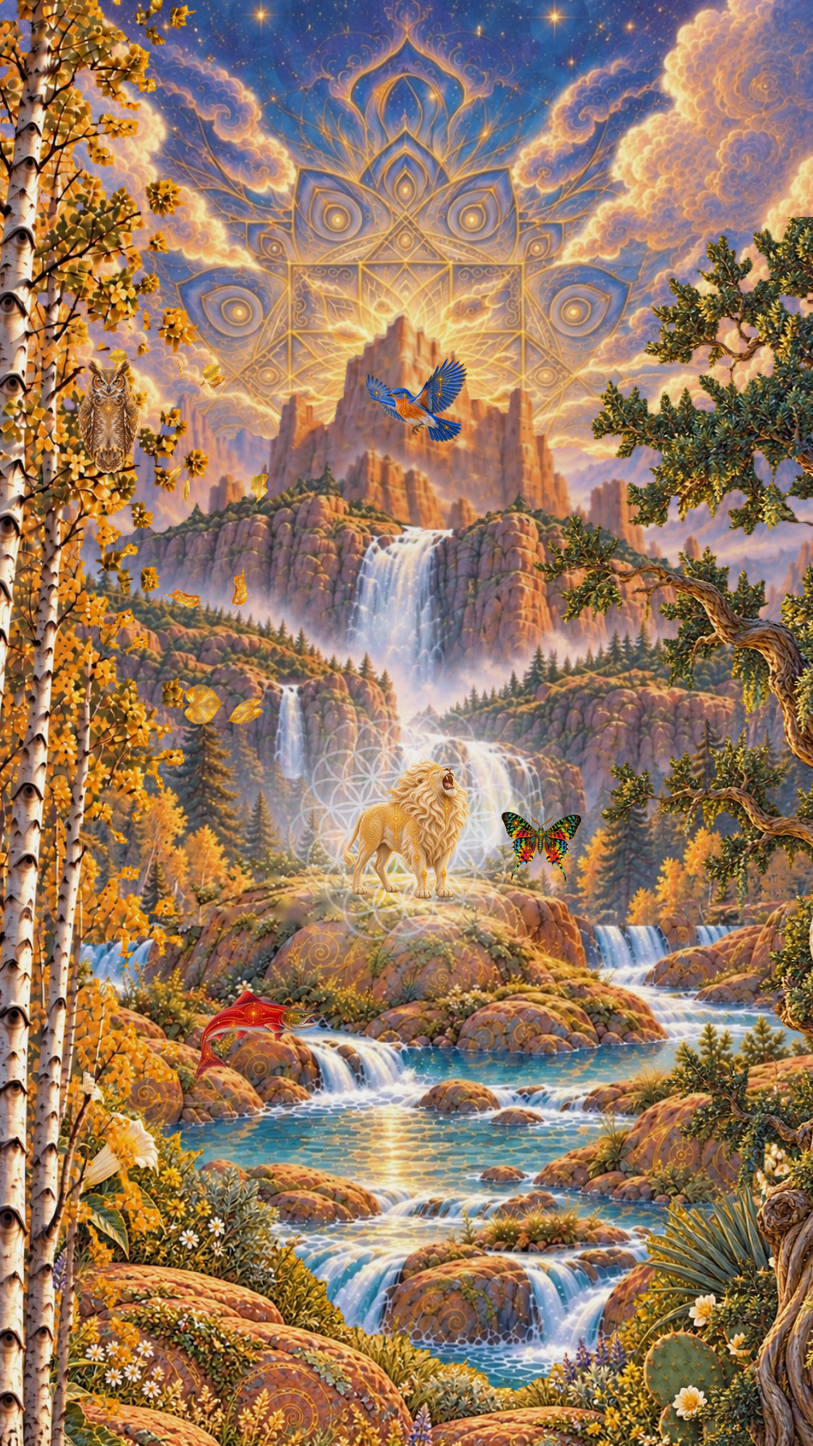
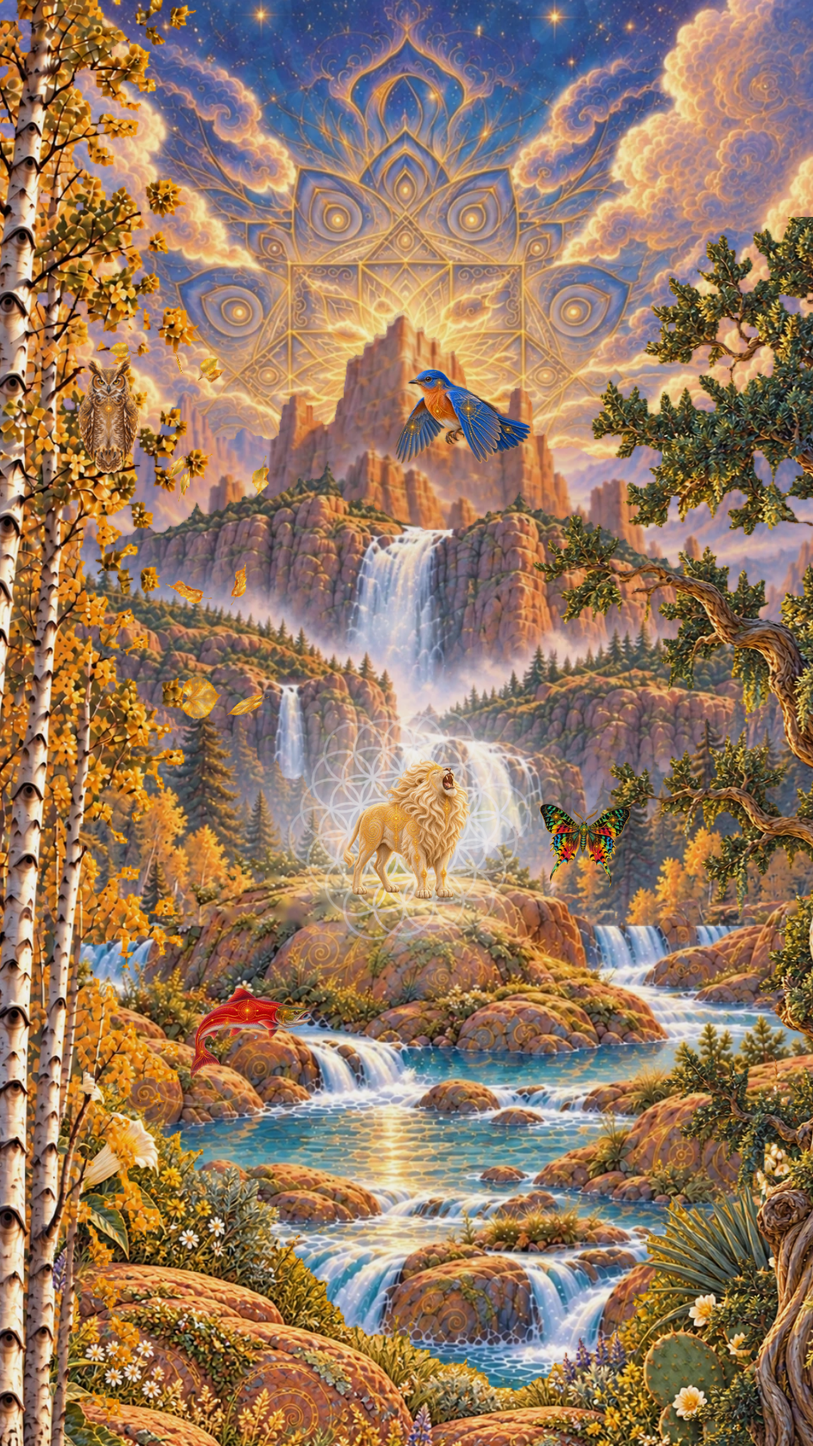
Depth: the bluebird swells toward the camera mid-flight and shrinks away; the lolo drifts nearer and farther, 10% bigger
Claude-Session: https://claude.ai/code/session_01X5u2D9a4RRbbCvwnE6RQKF

diff --git a/frontend/src/components/site/journeyEngine.js b/frontend/src/components/site/journeyEngine.js
@@ -125,8 +125,9 @@ const COCOON_AT = [541, 661], COCOON_W = 120;   // hanging from the juniper's lo
 const BUTTERFLY_FLY_S = 9, HATCH_S = [1.3, 2.4];   // [unfolding, gliding down to the water]
 // where Burnell's big butterfly used to wander, over the water (juniper coordinates), and its rest
 // on the cactus flower once the lion forms (the roar sends it up from there)
-const mothWander = (t) => ({ x: 135 + 1.2 * (60 * Math.sin(t * 0.55) + 18 * Math.sin(t * 1.7)), y: 1074 + 38 * Math.sin(t * 0.85), rot: 10 * Math.cos(t * 0.55) });
-const MOTH_REST = [530, 914];   // on the rocks right of the river, mid-frame: at the finale frame the roar has lifted it beside the lion
+const mothWander = (t) => ({ x: 135 + 1.2 * (60 * Math.sin(t * 0.55) + 18 * Math.sin(t * 1.7)), y: 1074 + 38 * Math.sin(t * 0.85), rot: 10 * Math.cos(t * 0.55),
+  scale: 1 + 0.16 * Math.sin(t * 0.37 + 1) });   // drifting nearer and farther
+const MOTH_REST = [565, 914];   // on the rocks right of the river, mid-frame: at the finale frame the roar has lifted it beside the lion
 const OWL_LOOK_MS = 600, OWL_HOLD_MS = 4200;
 // One beat at a time, on the world's clock (T, seconds since the world opened), every 15s: the near
 // flock crosses (every other beat).
@@ -177,7 +178,7 @@ const CREATURES = [
   { kind: "butterfly", layer: "forest", w: 30, pose: (t) => ({ x: 650 + 70 * Math.sin(t * 0.55 + 2.1) + 20 * Math.sin(t * 1.7 + 2.1),
     y: 1000 + 30 * Math.sin(t * 0.85 + 4.2), rot: 10 * Math.cos(t * 0.55 + 2.1) }) },
   { kind: "cocoon", layer: "juniper", w: COCOON_W, pose: (t, p, c) => (c.gone ? null : { x: COCOON_AT[0], y: COCOON_AT[1] }) },
-  { kind: "butterfly", landed: true, layer: "juniper", w: 100, pose: (t, p, c) => {
+  { kind: "butterfly", landed: true, layer: "juniper", w: 110, pose: (t, p, c) => {
     if (!c.emerged) {
       if (!c.hatchAt) return null;
       const d = t - c.hatchAt;
@@ -188,7 +189,7 @@ const CREATURES = [
         rot: w.rot * e, flying: u > 0 };
     }
     // free, it drifts over the water; once the lion forms it comes to rest on the cactus flower
-    const base = c.home ? { x: MOTH_REST[0], y: MOTH_REST[1], rot: 0 } : mothWander(t);
+    const base = c.home ? { x: MOTH_REST[0], y: MOTH_REST[1], rot: 0, scale: 1 } : mothWander(t);
     if (c.returnAt) {
       const u = (t - c.returnAt) / RETURN_S;
       if (u >= 1 || u < 0) c.returnAt = 0;
@@ -198,7 +199,8 @@ const CREATURES = [
     if (d < 0 || d > BUTTERFLY_FLY_S) { c.flyAt = 0; return { ...base, flying: !c.home }; }
     const e = smooth(d / 1.2) * smooth((BUTTERFLY_FLY_S - d) / 1.5);   // lifts off, loops wide, comes back down
     return { x: base.x + e * (-150 + 150 * Math.cos(d * 0.8) + 40 * Math.sin(d * 2.3)),
-      y: base.y - e * (130 + 60 * Math.sin(d * 1.3)), rot: base.rot + e * 12 * Math.cos(d * 0.9), flying: true };
+      y: base.y - e * (130 + 60 * Math.sin(d * 1.3)), rot: base.rot + e * 12 * Math.cos(d * 0.9), flying: true,
+      scale: base.scale * (1 + e * (0.05 + 0.08 * Math.sin(d * 0.9 + 2.2))) };   // its loop swings toward the camera and back
   } },
   ...LEAVES.map(([n, after, depth, w, x0, off, ph]) => ({ kind: "leaf", src: `trev-world-bleaf-${n}.webp`, after, depth, w,
     pose: (t, p) => ({
@@ -212,12 +214,13 @@ const CREATURES = [
     if (c.returnAt) {   // called home (the lion's moment): flies in from the right onto its branch
       const u = (t - c.returnAt) / RETURN_S;
       if (u >= 1 || u < 0) c.returnAt = 0;
-      else { const e = smooth(u); return { x: PERCH.x + 430 * (1 - e), y: PERCH.y - 170 * (1 - e) - 40 * Math.sin(Math.PI * e), flying: true, face: -1 }; }
+      else { const e = smooth(u); return { x: PERCH.x + 430 * (1 - e), y: PERCH.y - 170 * (1 - e) - 40 * Math.sin(Math.PI * e), flying: true, face: -1, scale: 0.7 + 0.3 * e }; }
     }
     const d = c.flyAt ? t - c.flyAt : -1;
     if (d < 0) return { x: PERCH.x, y: PERCH.y, flying: false };
     if (d < 2.6) { const e = Math.pow(d / 2.6, 1.5);
-      return { x: PERCH.x - 760 * e, y: PERCH.y - 420 * e + 22 * Math.sin(d * 9) * (1 - e), flying: true, face: -1 }; }
+      // depth: she banks toward the camera as she goes, growing, then pulls away into the sky
+      return { x: PERCH.x - 760 * e, y: PERCH.y - 420 * e + 22 * Math.sin(d * 9) * (1 - e), flying: true, face: -1, scale: 1 + 0.35 * Math.sin(Math.PI * Math.min(1, e * 1.25)) }; }
     if (d < 18) return null;
     if (d > 19) c.flyAt = 0;                              // back on its branch
     return { x: PERCH.x, y: PERCH.y, flying: false, op: Math.min(1, d - 18) };
@@ -934,6 +937,12 @@ export function mountJourney(root, { start = "hero", navigate } = {}) {
   }
   const layerOf = Object.fromEntries(LAYERS.map((L) => [L.key, L]));
   const GONE_WHEN_FROZEN = new Set(["bird", "leaf", "mote", "ripple", "firefly", "salmon", "splash"]);
+  // a creature's own size change (depth) happens about its centre, not its top-left corner
+  const scaleAbout = (c, k) => {
+    if (!c.half || !c.half[0] || !c.half[1]) c.half = [c.el.offsetWidth / 2, c.el.offsetHeight / 2];
+    const [hx, hy] = c.half;
+    return ` translate(${hx.toFixed(1)}px, ${hy.toFixed(1)}px) scale(${k.toFixed(3)}) translate(${(-hx).toFixed(1)}px, ${(-hy).toFixed(1)}px)`;
+  };
   function placeCreatures(t, p) {
     // the lion's moment: over SETTLE_MS the animals that roam fade out (the leaves quickest) while the
     // rest come home, then every pose holds at one fixed moment (the finale's first frame)
@@ -956,7 +965,7 @@ export function mountJourney(root, { start = "hero", navigate } = {}) {
       if (el.style.opacity !== op) el.style.opacity = op;
       if (c.update) c.update(pose);
       const sx = pose.flip != null ? pose.flip : pose.face;
-      el.style.transform = `translate3d(${x.toFixed(1)}px, ${y.toFixed(1)}px, 0)${pose.rot ? ` rotate(${pose.rot.toFixed(1)}deg)` : ""}${sx != null ? ` scaleX(${sx.toFixed(3)})` : ""}${pose.scale ? ` scale(${pose.scale.toFixed(3)})` : ""}`;
+      el.style.transform = `translate3d(${x.toFixed(1)}px, ${y.toFixed(1)}px, 0)${pose.rot ? ` rotate(${pose.rot.toFixed(1)}deg)` : ""}${sx != null ? ` scaleX(${sx.toFixed(3)})` : ""}${pose.scale && pose.scale !== 1 ? scaleAbout(c, pose.scale) : ""}`;
     }
   }
   function storyLayout(s) {
